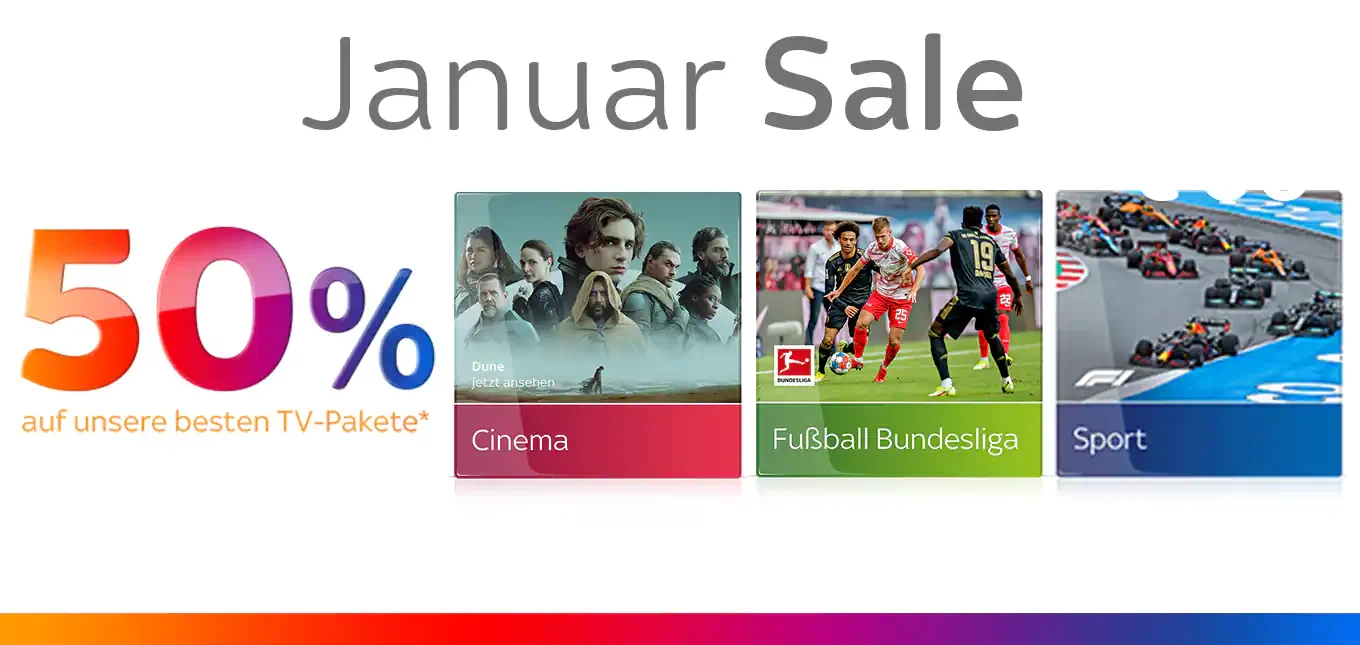
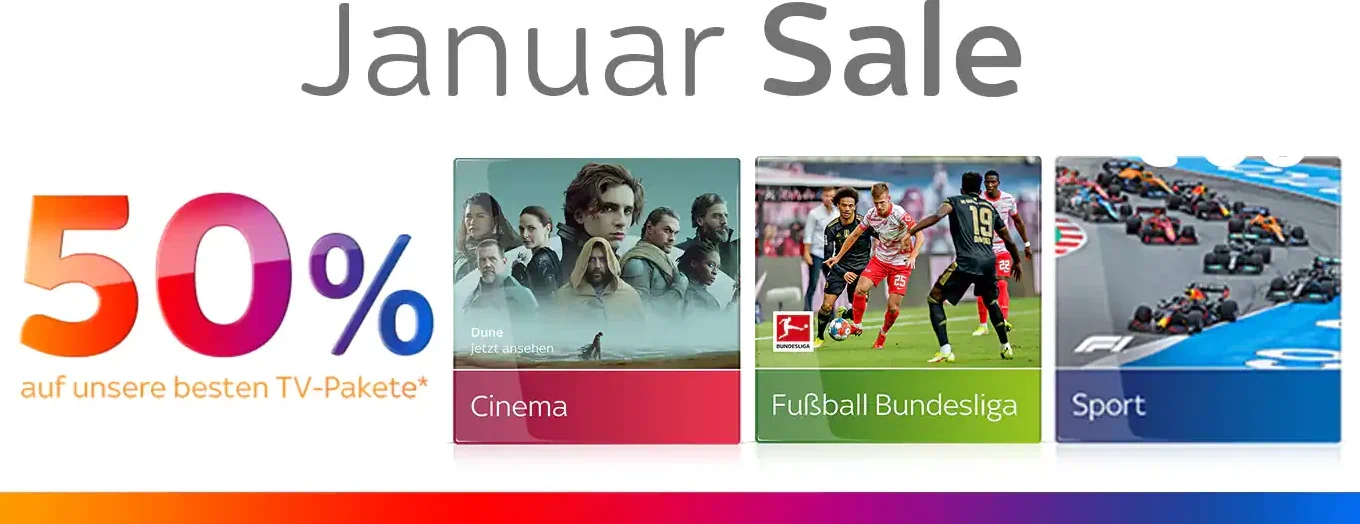
changed small layout things

diff --git a/src/lib/site_components/angebote_rotator.svelte b/src/lib/site_components/angebote_rotator.svelte
@@ -10,17 +10,19 @@
 		//'<b>+ € 50 Amazon Gutschein bei Ent+1 Paket oder € 125 Amazon Gutschein bei Ent+2 Pakete oder Ent Plus+1 Paket (Versand durch Sky)</b>'
 		//'<b>+ Bis 31.12.21 keine Abogebühren durch Sky</b>'
 		//'<b>+ Sky Winteraktion: Bis zu 12 Monate Sky Sport gratis dazu</b>',
-		'<b>+ Bis zu € 100 Gutschrift von Sky</b>'
+		//'<b>+ Bis zu € 100 Gutschrift von Sky</b>'
+		'<b>+ 50% Rabatt auf Cinema, Bundesliga und/oder Sport</b>'
 	];
-	const optional = 'Optional Netflix, DAZN und UHD, + 500 PAYBACK Punkte'
+	const optional = 'Optional Netflix, DAZN und UHD, + 500 PAYBACK Punkte';
 	const components = [
 		{
 			title: '2 Sky Pakete nach Wahl + € 20 Prämie',
 			image: '/images/wahl/wahl_2aus4.png',
 			points: atr,
-			subtitle: 'ab € 20 monatlich* ',
+			subtitle: 'ab € 17,50 monatlich* ',
 			info_text:
-				'(im Jahres-Abo, danach flexibel monatlich kündbar, Preis bezieht sich auf Entertainment + Sport) ' + optional,
+				'(im Jahres-Abo, danach flexibel monatlich kündbar, Preis bezieht sich auf Entertainment + Sport) ' +
+				optional,
 			route: '/sky_angebote/2_pakete'
 		},
 		{
@@ -35,9 +37,10 @@
 			title: '3 Sky Pakete nach Wahl + € 20 Prämie',
 			image: '/images/wahl/wahl_3aus4.png',
 			points: atr,
-			subtitle: 'ab € 30 monatlich* ',
+			subtitle: 'ab € 22,50 monatlich* ',
 			info_text:
-				'(im Jahres-Abo, danach flexibel monatlich kündbar, Preis bezieht sich auf Entertainment + Cinema + Sport) ' + optional,
+				'(im Jahres-Abo, danach flexibel monatlich kündbar, Preis bezieht sich auf Entertainment + Cinema + Sport) ' +
+				optional,
 			route: '/sky_angebote/3_pakete'
 		},
 
@@ -45,21 +48,19 @@
 			title: 'Alle 4 Sky Pakete + € 20 Prämie',
 			image: '/images/wahl/wahl_4.png',
 			points: atr,
-			subtitle: '€ 42,50 monatlich* ',
+			subtitle: '€ 28,50 monatlich* ',
 			info_text:
-				'(im Jahres-Abo, danach flexibel monatlich kündbar, Preis bezieht sich auf Entertainment + Cinema + Sport + Bundesliga)  ' + optional,
+				'(im Jahres-Abo, danach flexibel monatlich kündbar, Preis bezieht sich auf Entertainment + Cinema + Sport + Bundesliga)  ' +
+				optional,
 			route: '/sky_angebote/4_oder_mehr_pakete'
 		},
-
-		
 
 		{
 			title: 'Sky Cinema Paket + € 20 Prämie',
 			image: '/images/wahl/wahl_cinema.png',
 			points: atr,
-			subtitle: '€ 30,00 monatlich* ',
-			info_text:
-				'(im Jahres-Abo, danach €&nbsp;37,50&nbsp;mtl. im Monats-Abo) ' + optional,
+			subtitle: '€ 25,00 monatlich* ',
+			info_text: '(im Jahres-Abo, danach €&nbsp;37,50&nbsp;mtl. im Monats-Abo) ' + optional,
 			route: '/sky_angebote/cinema'
 		},
 
@@ -67,9 +68,8 @@
 			title: 'Sky Sport Paket + € 20 Prämie',
 			image: '/images/wahl/wahl_sport.png',
 			points: atr,
-			subtitle: '€ 20,00 monatlich* ',
-			info_text:
-				'(im Jahres-Abo, danach € 25 mtl. im Monats-Abo) ' + optional,
+			subtitle: '€ 17,50 monatlich* ',
+			info_text: '(im Jahres-Abo, danach € 25 mtl. im Monats-Abo) ' + optional,
 			route: '/sky_angebote/sport'
 		},
 
@@ -77,9 +77,8 @@
 			title: 'Sky Fußball-Bundesliga Paket + € 20 Prämie',
 			image: '/images/wahl/wahl_bundesliga.png',
 			points: atr,
-			subtitle: '€ 27,00 monatlich* ',
-			info_text:
-				'(im Jahres-Abo, danach € 32,00 mtl. im Monats-Abo) ' + optional,
+			subtitle: '€ 20,75 monatlich* ',
+			info_text: '(im Jahres-Abo, danach € 32,00 mtl. im Monats-Abo) ' + optional,
 			route: '/sky_angebote/bundesliga'
 		}
 	];

diff --git a/src/lib/site_components/Showcases/50JanuarShowcase.svelte b/src/lib/site_components/Showcases/50JanuarShowcase.svelte
@@ -28,7 +28,6 @@
 		<div style="order: 3;" />
 	</div>
 
-	<div style="padding-top:max(1vw, 20px);" />
 	<div class="primary_align">
 		<img class="primary" src="/images/visuals/januar_sale.webp" alt="">
 	</div>
@@ -60,6 +59,7 @@
 		display: flex;
 		justify-content: center;
 		margin: 50px;
+		margin-top: 20px;
 	}
 	.top_header {
 		display: flex;
@@ -82,6 +82,7 @@
 		justify-content: center;
 		align-content: center;
 		align-items: center;
+		margin-top: 10px;
 	}
 
 	.bottom_things {
@@ -165,6 +166,7 @@
 		padding-bottom: 0px;
 		align-self: auto;
 		flex: 1 1 auto;
+		
 	}
 
 	.header_text {

diff --git a/src/lib/site_components/package_table.svelte b/src/lib/site_components/package_table.svelte
@@ -1,5 +1,6 @@
 <script>
-	import DefaultTable from "./tables/default_table.svelte";
+	//import DefaultTable from "./tables/default_table.svelte";
+	import JanuarSaleTable from "./tables/JanuarSaleTable.svelte";
 </script>
 
-<DefaultTable></DefaultTable>
+<JanuarSaleTable></JanuarSaleTable>

diff --git a/src/lib/site_components/footer.svelte b/src/lib/site_components/footer.svelte
@@ -110,9 +110,9 @@
 		text-align: center;
 		margin-bottom: 90px;
 		font-size: small;
-		color: #545454;
+		color: #949494;
 		max-width: 80%;
-		width: 500px;
+		width: 1300px;
 		margin-left: auto;
 		margin-right: auto;
 	}
